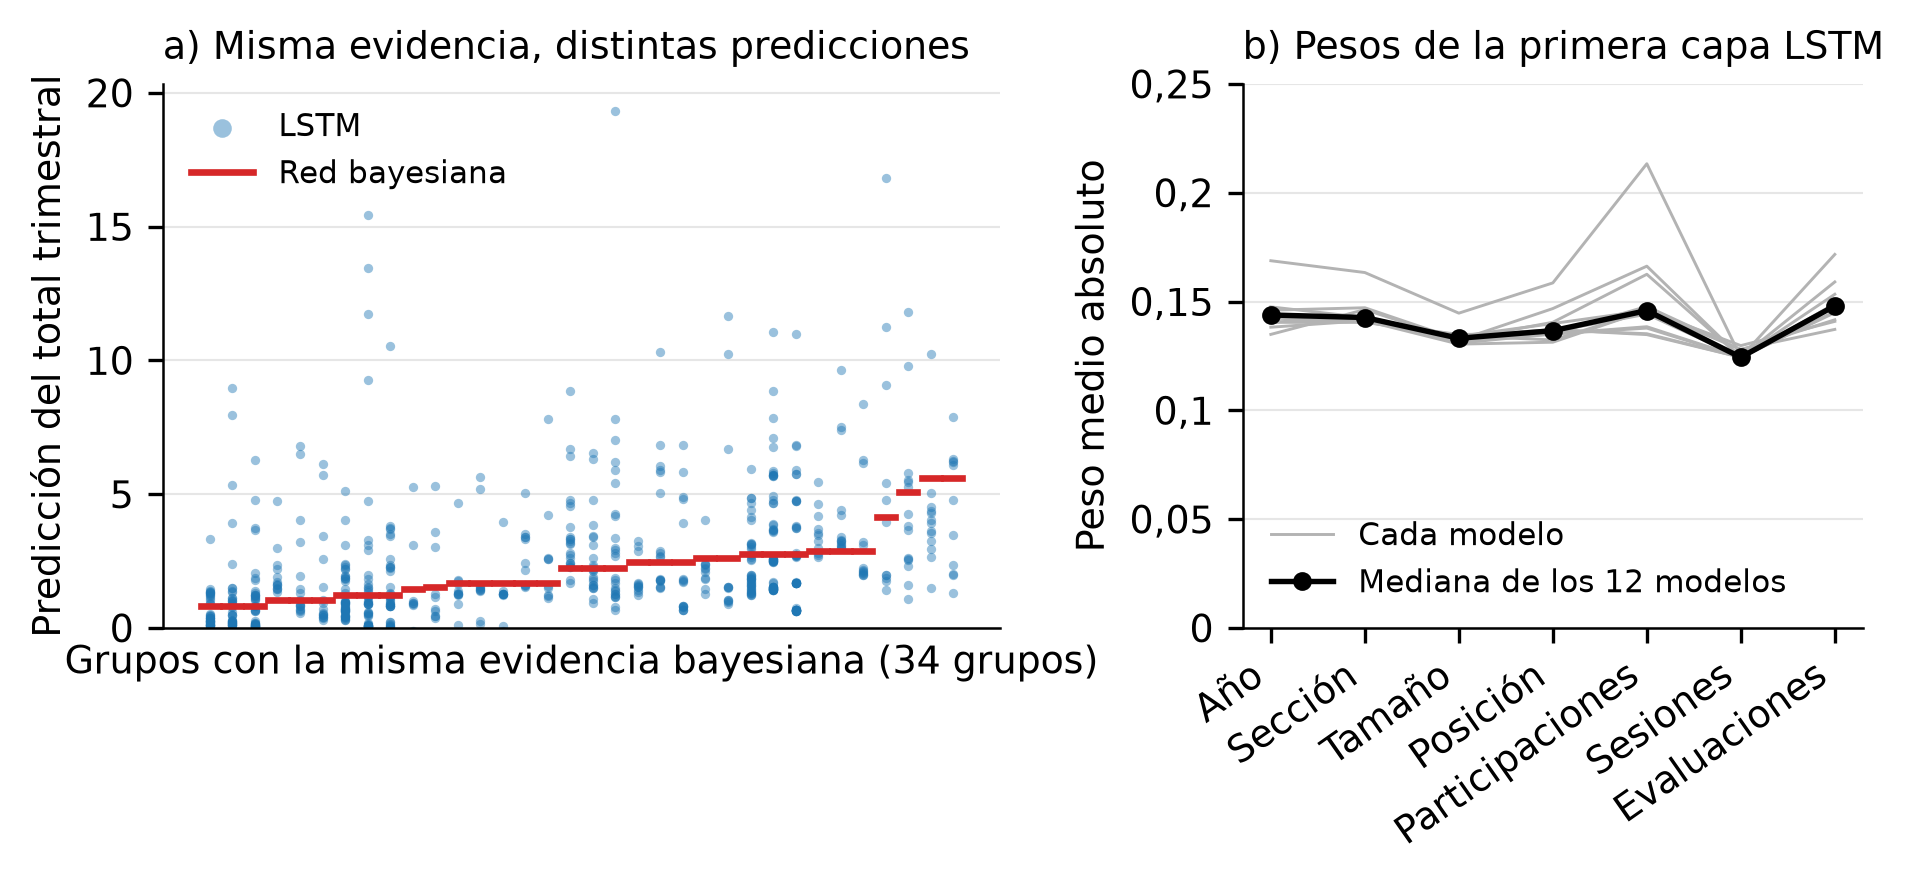
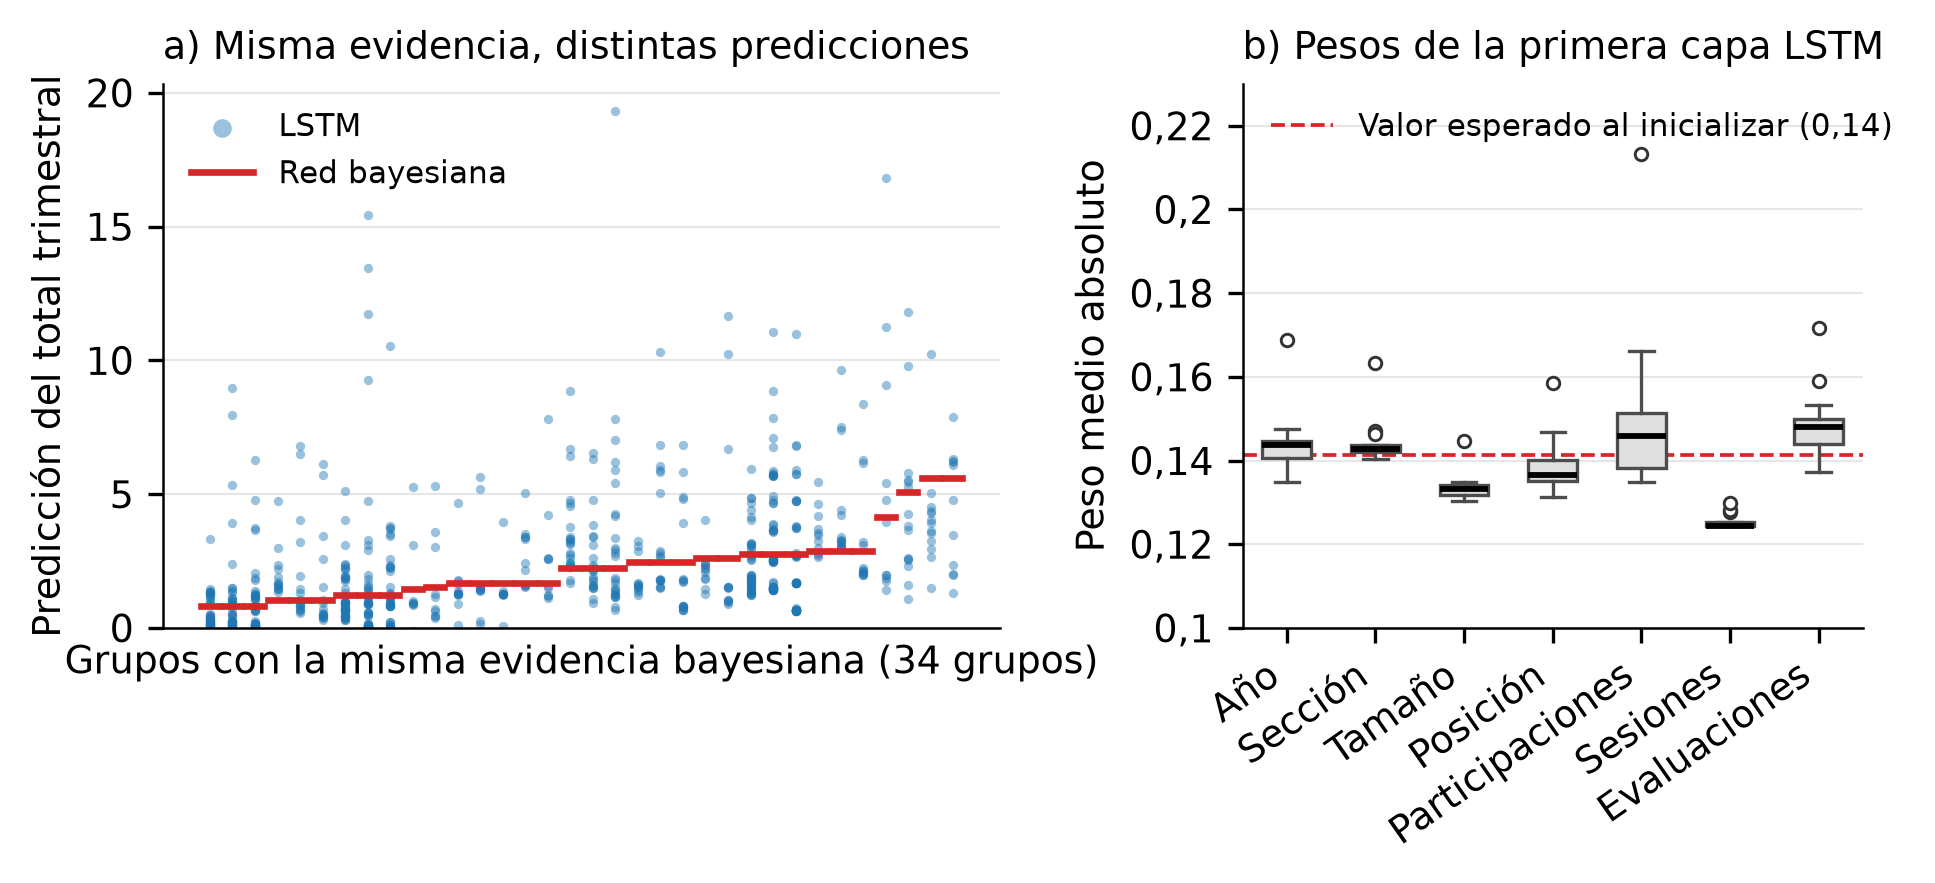
k

diff --git a/6_evaluacion/codigo/figura_meta_participaciones.py b/6_evaluacion/codigo/figura_meta_participaciones.py
@@ -1,0 +1,119 @@
+"""Apéndice J, hipótesis de la meta de participaciones: curva de supervivencia
+empírica del total de participaciones del trimestre.
+
+Para cada valor x se cuenta cuántos registros estudiante-sección hicieron al
+menos x participaciones en el trimestre. Se usan los 524 registros una sola
+vez (sin triplicarlos por los hitos S4, S6 y S8). Si los estudiantes dejaran de
+participar al llegar a una meta (10 o 15), la curva mostraría una caída
+abrupta justo después de ese valor; si no hay meta, desciende de forma gradual.
+
+Para comprobar la caída se calcula, en cada valor x, la proporción de los
+registros que llegaron a x y se quedaron exactamente en x (tasa de detención).
+En 10 y 15 se compara con la tasa conjunta de los tres valores anteriores y los
+tres siguientes, con una prueba binomial unilateral (¿se detienen más de lo
+esperado?).
+
+No modifica ningún resultado: lee `1_datos/estandarizados/` y comprueba las
+cifras ya citadas en el informe (14 registros con 10, 15 con 9 y 11 con 11).
+
+Correr el archivo genera
+`figuras/apendice_J_anomalias/figura_supervivencia_participaciones.png` y
+`6_evaluacion/resultados/meta_participaciones_supervivencia.csv`.
+"""
+from __future__ import annotations
+
+from pathlib import Path
+
+import matplotlib
+matplotlib.use("Agg")
+import matplotlib.pyplot as plt
+import numpy as np
+import pandas as pd
+from scipy.stats import binomtest
+
+import rutas  # noqa: F401  (agrega 4_red_bayesiana/codigo a sys.path)
+from ensamblado import cargar_datos_crudos
+
+RAIZ = Path(__file__).resolve().parent.parent.parent
+SALIDA_FIGURA = RAIZ / "figuras" / "apendice_J_anomalias" / "figura_supervivencia_participaciones.png"
+SALIDA_CSV = RAIZ / "6_evaluacion" / "resultados" / "meta_participaciones_supervivencia.csv"
+REGISTRO = ["materia", "trimestre", "seccion", "estudiante_id"]
+UMBRALES = (10, 15)
+VECINOS = 3
+LINEA = "#3b5b92"
+
+
+def _coma(valor: float, decimales: int = 2) -> str:
+    return f"{valor:.{decimales}f}".replace(".", ",")
+
+
+def supervivencia() -> tuple[pd.DataFrame, pd.DataFrame]:
+    totales = cargar_datos_crudos().groupby(REGISTRO).participaciones.sum()
+    assert len(totales) == 524 and totales.max() == 44
+    conteo = totales.value_counts()
+    assert (conteo[9], conteo[10], conteo[11]) == (15, 14, 11)   # cifras citadas en el Apéndice J
+
+    x = np.arange(0, int(totales.max()) + 1)
+    tabla = pd.DataFrame({"participaciones": x,
+                          "registros_al_menos": [(totales >= v).sum() for v in x],
+                          "registros_exactamente": [(totales == v).sum() for v in x]})
+    tabla["proporcion_al_menos"] = tabla.registros_al_menos / len(totales)
+    tabla["tasa_detencion"] = tabla.registros_exactamente / tabla.registros_al_menos
+    assert tabla.registros_al_menos.iloc[0] == 524
+
+    pruebas = []
+    for u in UMBRALES:
+        fila = tabla.set_index("participaciones").loc[u]
+        vecinos = tabla[tabla.participaciones.between(u - VECINOS, u + VECINOS) & (tabla.participaciones != u)]
+        tasa_vecinos = vecinos.registros_exactamente.sum() / vecinos.registros_al_menos.sum()
+        prueba = binomtest(int(fila.registros_exactamente), int(fila.registros_al_menos), tasa_vecinos,
+                           alternative="greater")
+        pruebas.append({"umbral": u, "registros_al_menos": int(fila.registros_al_menos),
+                        "registros_exactamente": int(fila.registros_exactamente),
+                        "tasa_detencion": fila.tasa_detencion, "tasa_vecinos": tasa_vecinos,
+                        "p_valor": prueba.pvalue})
+    return tabla, pd.DataFrame(pruebas)
+
+
+def graficar(tabla: pd.DataFrame) -> None:
+    plt.rcParams.update({"font.family": "Arial", "font.size": 9.5})
+    figura, ejes = plt.subplots(1, 2, figsize=(6.5, 3.0))
+    datos = tabla[tabla.registros_al_menos > 0]
+    for eje, logaritmica in zip(ejes, (False, True)):
+        eje.plot(datos.participaciones, datos.registros_al_menos, "-o", color=LINEA, linewidth=1.3,
+                 markersize=2.8, zorder=3)
+        for u in UMBRALES:
+            n = int(tabla.set_index("participaciones").registros_al_menos[u])
+            eje.axvline(u, color="0.45", linestyle="--", linewidth=0.9, zorder=1)
+            eje.annotate(f"{n} registros", xy=(u, n), xytext=(4, 4), textcoords="offset points", fontsize=8.5,
+                         color="0.2", zorder=4)
+        if logaritmica:
+            eje.set_yscale("log")
+            eje.set_yticks([1, 2, 5, 10, 20, 50, 100, 200, 500], ["1", "2", "5", "10", "20", "50", "100", "200", "500"])
+            eje.minorticks_off()
+            eje.set_ylim(0.8, 700)
+        else:
+            eje.set_ylim(0, 560)
+        eje.set_xlim(-1, 45)
+        eje.set_xticks([0, 5, 10, 15, 20, 30, 40])
+        eje.grid(color="0.9", linewidth=0.6)
+        eje.set_axisbelow(True)
+        for lado in ("top", "right"):
+            eje.spines[lado].set_visible(False)
+        eje.set_xlabel("Participaciones en el trimestre (x)")
+    ejes[0].set_ylabel("Registros con al menos x participaciones")
+    ejes[0].set_title(r"$\mathbf{(a)}$ Escala lineal", fontsize=9.5, loc="left")
+    ejes[1].set_title(r"$\mathbf{(b)}$ Escala logarítmica", fontsize=9.5, loc="left")
+    figura.tight_layout(w_pad=1.5)
+    SALIDA_FIGURA.parent.mkdir(parents=True, exist_ok=True)
+    figura.savefig(SALIDA_FIGURA, dpi=300, bbox_inches="tight", facecolor="white")
+
+
+if __name__ == "__main__":
+    tabla, pruebas = supervivencia()
+    tabla.to_csv(SALIDA_CSV, index=False)
+    print(tabla[tabla.participaciones <= 25].round(3).to_string(index=False))
+    print("\nComparación con los tres valores anteriores y los tres siguientes:")
+    print(pruebas.round(3).to_string(index=False))
+    graficar(tabla)
+    print("Figura guardada en", SALIDA_FIGURA)

diff --git a/3_lstm/adaptacion/explicabilidad_lstm.py b/3_lstm/adaptacion/explicabilidad_lstm.py
@@ -20,7 +20,8 @@ entrenaron, este análisis describe el comportamiento de los modelos y no es
 una evaluación predictiva.
 
 Correr el archivo genera los CSV en `3_lstm/resultados/` y la figura del Apéndice K
-en `figuras/apendice_K_explicabilidad_lstm/`.
+en `figuras/apendice_K_explicabilidad_lstm/`. Con `--solo-figura` redibuja la figura a
+partir de los CSV ya guardados, sin recalcular.
 """
 from __future__ import annotations
 
@@ -164,8 +165,9 @@ def analisis_perturbaciones() -> pd.DataFrame:
 
 def figura(casos: pd.DataFrame, pesos: pd.DataFrame) -> None:
     """a) Predicciones de ambos modelos para estudiantes con la misma evidencia
-    bayesiana (grupos de al menos 10 casos). b) Peso medio absoluto de cada
-    entrada numérica en la primera capa LSTM de los 12 modelos finales."""
+    bayesiana (grupos de al menos 10 casos). b) Diagrama de caja, por entrada
+    numérica, del peso medio absoluto en la primera capa LSTM de los 12 modelos
+    finales (semilla 42), con el valor esperado al inicializar como referencia."""
     import matplotlib.pyplot as plt
     plt.rcParams.update({"font.size": 9, "axes.linewidth": 0.6})
     coma = lambda y, _p: f"{y:g}".replace(".", ",")
@@ -192,30 +194,51 @@ def figura(casos: pd.DataFrame, pesos: pd.DataFrame) -> None:
     orden = list(etiquetas)
     tabla = pesos[pesos.rasgo.isin(orden)].pivot_table(index=["materia", "hito"], columns="rasgo",
                                                        values="peso_medio_abs")[orden]
-    for i, (_, fila) in enumerate(tabla.iterrows()):
-        a2.plot(range(len(orden)), fila.to_numpy(), "-", color="0.7", linewidth=0.7,
-                label="Cada modelo" if i == 0 else None)
-    a2.plot(range(len(orden)), tabla.median().to_numpy(), "o-", color="black", linewidth=1.3,
-            markersize=3.5, label="Mediana de los 12 modelos")
+    # Un diagrama de caja por entrada con los 12 valores (un modelo final por asignatura e
+    # hito, semilla 42): mediana, cuartiles, bigotes hasta 1,5 veces el rango intercuartílico
+    # y, fuera de ellos, los valores atípicos.
+    valores = [tabla[r].to_numpy() for r in orden]
+    assert all(len(v) == 12 for v in valores)
+    a2.boxplot(valores, positions=range(len(orden)), widths=0.55, whis=1.5, patch_artist=True,
+               boxprops={"facecolor": "0.88", "edgecolor": "0.3", "linewidth": 0.8},
+               medianprops={"color": "black", "linewidth": 1.4},
+               whiskerprops={"color": "0.3", "linewidth": 0.8}, capprops={"color": "0.3", "linewidth": 0.8},
+               flierprops={"marker": "o", "markersize": 3, "markerfacecolor": "white",
+                           "markeredgecolor": "0.2", "markeredgewidth": 0.7})
+    # Referencia: valor esperado del peso medio absoluto al inicializar (Glorot uniforme,
+    # límite sqrt(6 / (entradas + salidas)); la media de |w| es la mitad del límite).
+    entradas, salidas = len(RASGOS), 64
+    inicial = np.sqrt(6 / (entradas + salidas)) / 2
+    a2.axhline(inicial, color="tab:red", linestyle="--", linewidth=0.9, zorder=1,
+               label=f"Valor esperado al inicializar ({inicial:.2f})".replace(".", ","))
     a2.set_xticks(range(len(orden)))
     a2.set_xticklabels([etiquetas[r] for r in orden], rotation=35, ha="right")
     a2.set_ylabel("Peso medio absoluto")
-    a2.set_ylim(0, 0.25)
+    a2.set_ylim(0.10, 0.23)
     a2.yaxis.set_major_formatter(coma)
     a2.set_title("b) Pesos de la primera capa LSTM", fontsize=9, loc="left")
-    a2.legend(frameon=False, fontsize=7.5, loc="lower left")
+    a2.legend(frameon=False, fontsize=7.5, loc="upper left")
     for eje in (a1, a2):
         eje.grid(axis="y", color="0.9", linewidth=0.5)
         eje.set_axisbelow(True)
         for lado in ("top", "right"):
             eje.spines[lado].set_visible(False)
-    fig.tight_layout(w_pad=2.0)
+    # Posiciones fijas: las que daba `tight_layout(w_pad=2.0)` en la versión con líneas del
+    # panel b, para que el panel a quede exactamente igual que antes.
+    a1.set_position([0.1074, 0.2911, 0.4295, 0.6044])
+    a2.set_position([0.6611, 0.2911, 0.3181, 0.6044])
     CARPETA_FIGURAS.mkdir(parents=True, exist_ok=True)
     fig.savefig(CARPETA_FIGURAS / "figura_explicabilidad_lstm.png", dpi=300, bbox_inches="tight", facecolor="white")
     plt.close(fig)
 
 
 if __name__ == "__main__":
+    if "--solo-figura" in sys.argv:
+        # Redibuja la figura con los CSV ya guardados, sin recalcular ningún análisis.
+        figura(pd.read_csv(CARPETA / "explicabilidad_lstm_casos.csv"),
+               pd.read_csv(CARPETA / "explicabilidad_lstm_pesos.csv"))
+        print("Figura guardada en", CARPETA_FIGURAS)
+        sys.exit()
     pesos = analisis_pesos()
     pesos.to_csv(CARPETA / "explicabilidad_lstm_pesos.csv", index=False)
     casos = analisis_perturbaciones()

diff --git a/figuras/INDICE.md b/figuras/INDICE.md
@@ -65,11 +65,17 @@ Capturas reales de la interfaz, en `apendice_I_prototipo/`:
 
 Las capturas las genera `5_prototipo/capturas_apendice_i.js` desde la interfaz en ejecución; I3 e I9 muestran la lista de semillas desplegada.
 
+## Apéndice J (cronograma y acontecimientos)
+
+| Figura | Título abreviado | Archivo | Generada por |
+|---|---|---|---|
+| J1 | Registros con al menos x participaciones (hipótesis de la meta) | `apendice_J_anomalias/figura_supervivencia_participaciones.png` | `6_evaluacion/codigo/figura_meta_participaciones.py` |
+
 ## Apéndice K (explicabilidad de la LSTM)
 
 | Figura | Título abreviado | Archivo | Generada por |
 |---|---|---|---|
-| K1 | Predicciones con la misma evidencia y pesos de la primera capa LSTM | `apendice_K_explicabilidad_lstm/figura_explicabilidad_lstm.png` | `3_lstm/adaptacion/explicabilidad_lstm.py` |
+| K1 | Predicciones con la misma evidencia y pesos de la primera capa LSTM | `apendice_K_explicabilidad_lstm/figura_explicabilidad_lstm.png` | `3_lstm/adaptacion/explicabilidad_lstm.py` (panel b en diagramas de caja; `--solo-figura` la redibuja desde los CSV) |
 
 ## Apéndice M (exploración inicial de los datos)
 
